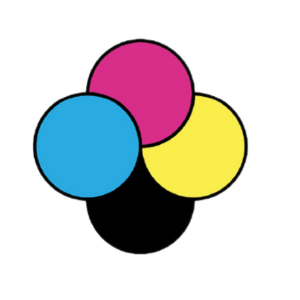
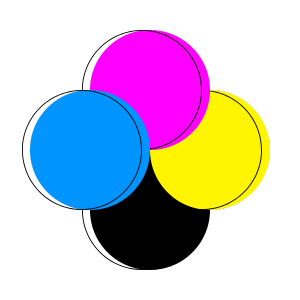
Major Update
add Animation on-scroll + adjust assets

diff --git a/index.html b/index.html
@@ -2,17 +2,12 @@
 <html lang="en">
 <head>
   <meta charset="UTF-8">
-  <meta name="viewport" content="width=device-width, initial-scale=1.0">
-  <title>UXCO</title>
-</head>
-<!DOCTYPE html>
-<html lang="en">
-<head>
-  <meta charset="UTF-8">
   <meta http-equiv="X-UA-Compatible" content="IE-edge">
   <meta name="viewport" content="width=device-width, initial-scale-1.0">
   <link rel="stylesheet" href="style/style.css">
-  <title>U of S UXCO</title>
+  <title>Pixel.Palette 2024</title>
+  <link rel="icon" type="image/png" sizes="32x32" href="img/logo.png">
+
   <link rel="stylesheet" href="https://cdnjs.cloudflare.com/ajax/libs/font-awesome/4.7.0/css/font-awesome.min.css">
 </head>
 <body>
@@ -36,17 +31,17 @@
   <section id="hero-section">
     <div>
       <div class="heading">
-        <h1>Pixel.Palette,</h1>
+        <h1>Pixel.<br>Palette</h1>
         <h2>Friday - March 22 - 2024</h2>
       </div>
 
       <div class="description">
-        <p>Exhibit - A student art exhibit & reception represented by UX Collective and The Eighty-Eight Gallery.</p>
+        <p>Exhibit - A student art exhibit & reception represented by UofS UX Collective and The Eighty-Eight Gallery.-"</p>
       </div>
     </div>
 
     <div>
-      <img src="img/asset1.png"></img>
+      <img src="img/asset1.gif"></img>
     </div>
   </section>
 
@@ -74,7 +69,7 @@
       </div>
 
       <div class="project">
-        <img src="img/TheLamp-HarrisFerguson.png"></img>
+        <a href="http://lamp.arrangednon.space/" target="_blank"><img src="img/TheLamp-HarrisFerguson.png"></a>
         <h1>The Lamp</h1>
         <h2>Artist: Herris Ferguson-"</h2>
         <p>"-The Lamp is created from the outside. The Lamp is a result of the actions of others. Each orb is a small piece, a single element, in service of The Lamp. Give yourself to The Lamp. Submit a piece of yourself to The Lamp. Merge and meld with the collective in The Lamp. Stare deep into The Lamp, and let The Lamp enter you.</p>
@@ -85,7 +80,7 @@
       </div>
 
       <div class="project">
-        <img src="img/SoulofAI-NacimKhelifi.png"></img>
+        <a href="https://soul-search.tiiny.site/" target="_blank"><img src="img/SoulofAI-NacimKhelifi.png"></a>
         <h1>Soul Of AI</h1>
         <h2>Artist: Nacim Khelifi-"</h2>
         <p> 
@@ -97,7 +92,7 @@
       </div>
 
       <div class="project">
-        <img src="img/TheBottleneck-LyinMya.png"></img>
+        <a href="https://elleowo.github.io/The-Bottle-Neck/" target="_blank"><img src="img/TheBottleneck-LyinMya.png"></a>
         <h1>The Bottleneck</h1>
         <h2>Artist: Lyin Mya-"</h2>
         <p>"-Sometimes you feel like you’re stuck in an episode of depression that you can’t get out of. Just when you think you’re out, you fall back in. But don’t worry. It’s okay to pick up things and restart.</p>
@@ -108,7 +103,7 @@
       </div>
 
       <div class="project">
-        <img src="img/Kanae-AksharaDash.png"></img>
+        <a href="https://aksharadash.com/art" target="_blank"><img src="img/Kanae-AksharaDash.png"></a>
         <h1>Kanae</h1>
         <h2>Artist: Akshara Dash-"</h2>
         <p>"-Kanae is a little girl. Kanae is red. Kanae is anger. Her anger is pure and it makes the room grow bigger like a big red balloon. Kanae is the room. The room is Kanae. Inspired by the character of Kanae from Hiromi Kawakami's 'People from Our Neighborhood,' Akshara Dash's artwork 'Kanae' delves into the relationship between emotions and physical spaces. Kanae, depicted as a vessel of pure anger, embodies the energy that inflates the room like a colossal red balloon. Through this exploration, Dash reflects on her own relatability to Kanae and the symbiotic interplay between internal emotional spaces and external environments.</p>
@@ -119,7 +114,7 @@
       </div>
 
       <div class="project">
-        <img src="img/UnravellingPolymath-KirkFord.png"></img>
+        <a href="https://wilford.info/" target="_blank"><img src="img/UnravellingPolymath-KirkFord.png"></a>
         <h1>Unravelling Polymath</h1>
         <h2>Artist: Kirk Ford-"</h2>
         <p> 
@@ -138,19 +133,19 @@
     <div class="faq-content">
       <div class="faq">
         <h2>What is Pixel.Palette?</h2>
-        <p>An event features art as a form of website</p>
+        <p>-Pixel.Palette is an event designed to showcase websites as forms of internet art, where student as digital creators, web designers, and artists come together. </p>
       </div>
       <div class="faq">
         <h2>Can I join without any experience?</h2>
-        <p>We have basic workshops through out this event which guide and help you creating your own work &#40;e.g., front-end programming, design and art &#41;</p>
+        <p>-We have basic workshops through out this event which guide and help you creating your own work &#40;e.g., front-end programming, design and art &#41;</p>
       </div>
       <div class="faq">
         <h2>Who can participate?</h2>
-        <p>This event is opened for every students and alumni of Usask, who are interested in creating a website as an art form!</p>
+        <p>-This event is opened for every students and alumni of Usask, who are interested in creating a website as an art form!</p>
       </div>
       <div class="faq">
-        <h2>Can I join without any experience?</h2>
-        <p>We have basic workshops through out this event which guide and help you creating your own work &#40;e.g., front-end programming, design and art &#41;</p>
+        <h2>Can I team up with others for my project?</h2>
+        <p>-Yes, absolutely! You can participate in as a group project or individual work. Whichever is the choice, we encourage collaboration and teamwork at Pixel.Palette.</p>
       </div>
     </div>
   </section>
@@ -159,9 +154,9 @@
   <section id="footer-section">
     <div class="footer-header">
       <div class="social-medias">
-        <a><ion-icon name="logo-discord"></ion-icon></a>
-        <a><ion-icon name="logo-instagram"></ion-icon></a>
-        <a><ion-icon name="logo-linkedin"></ion-icon></a>
+        <a href="https://discord.gg/2Ew4AC3t" target="_blank"><ion-icon name="logo-discord"></ion-icon></a>
+        <a href="https://www.instagram.com/uofs_uxcollective?utm_source=ig_web_button_share_sheet&igsh=ZDNlZDc0MzIxNw==" target="_blank"><ion-icon name="logo-instagram"></ion-icon></a>
+        <a href="https://www.linkedin.com/company/uofs-ux-collective/" target="_blank"><ion-icon name="logo-linkedin"></ion-icon></a>
       </div>
       <div class="credit">
         <p><i class="fa fa-copyright" aria-hidden="true"></i>2024 UX Collective</p>
@@ -174,5 +169,7 @@
   <!--ion-icon external library links-->
   <script type="module" src="https://unpkg.com/ionicons@7.1.0/dist/ionicons/ionicons.esm.js"></script>
   <script nomodule src="https://unpkg.com/ionicons@7.1.0/dist/ionicons/ionicons.js"></script>
+  <script src="https://cdnjs.cloudflare.com/ajax/libs/gsap/3.5.1/gsap.min.js"></script>
+  <script src="https://cdnjs.cloudflare.com/ajax/libs/gsap/3.5.1/ScrollTrigger.min.js"></script>
 </body>
 </html>

diff --git a/style/style.css b/style/style.css
@@ -12,7 +12,7 @@ body {
   margin: 0;
   padding: 0;
   overflow-y: scroll;
-  background-color: EEEFEF;
+  background-color: #fff;
   font-family: 'Roboto Mono', monospace;
 }
 
@@ -108,7 +108,7 @@ section{
 }
 
 #hero-section img{
-  max-width: 30vw;
+  max-width: 35vw;
   height:auto;
 }
 
@@ -118,9 +118,17 @@ section{
 
 #hero-section h1{
   font-family: "Space Mono", sans-serif;
-  color: #0094FF;
-  font-size:5em;
-  text-shadow: -1px -1px 0 #000, 1px -1px 0 #000, -1px 1px 0 #000, 1px 1px 0 #000;
+  color: #000;
+  font-size:8em;
+  text-shadow: 
+  -2px -2px 0 #333, 2px -2px 0 #333, 
+  -2px 2px 0 #333, 2px 2px 0 #333,
+  -1px -2px 0 #333, 1px -2px 0 #333,
+  -2px -1px 0 #333, 2px -1px 0 #333,
+  -2px 1px 0 #333, 2px 1px 0 #333,
+  -1px 2px 0 #333, 1px 2px 0 #333;
+  line-height: 12vh;
+  margin-bottom: 5vh;
 }
 
 .description{
@@ -128,7 +136,7 @@ section{
 }
 
 #hero-section p{
-  font-size: 2em;
+  font-size: 1em;
 }
 
 
@@ -152,10 +160,16 @@ section{
 }
 
 .workshop-header {
-  text-shadow: -1px -1px 0 #000, 1px -1px 0 #000, -1px 1px 0 #000, 1px 1px 0 #000;
-  font-size: 2em;
+  text-shadow: 
+  -2px -2px 0 #000, 2px -2px 0 #000, 
+  -2px 2px 0 #000, 2px 2px 0 #000,
+  -1px -2px 0 #000, 1px -2px 0 #000,
+  -2px -1px 0 #000, 2px -1px 0 #000,
+  -2px 1px 0 #000, 2px 1px 0 #000,
+  -1px 2px 0 #000, 1px 2px 0 #000;
+  font-size: 4em;
   margin-bottom: 50px;
-  color:#DB4B93;
+  color: #0094FF;
 }
 
 .img-container {
@@ -176,9 +190,10 @@ section{
 }
 
 .img-container img {
-  max-width: 40%;
+  max-width: 40vw;
   height: auto;
   display: inline-block; /* Ensures images are in line */
+  border: #000 solid;
 }
 
 /* Project*/
@@ -193,10 +208,16 @@ section{
 }
 
 .project-header h1 {
-  text-shadow: -1px -1px 0 #000, 1px -1px 0 #000, -1px 1px 0 #000, 1px 1px 0 #000;
+  text-shadow: 
+  -2px -2px 0 #000, 2px -2px 0 #000, 
+  -2px 2px 0 #000, 2px 2px 0 #000,
+  -1px -2px 0 #000, 1px -2px 0 #000,
+  -2px -1px 0 #000, 2px -1px 0 #000,
+  -2px 1px 0 #000, 2px 1px 0 #000,
+  -1px 2px 0 #000, 1px 2px 0 #000;
   margin-bottom: 50px;
-  font-size: 3em;
-  color:#f6f21c;
+  font-size: 7em;
+  color:#DB4B93;
 }
 
 .project-feature .project h1{
@@ -209,6 +230,10 @@ section{
   font-weight: 400;
   font-style: italic;
   margin-bottom: 10px;
+}
+
+.project p{
+  text-align: justify;
 }
 
 .project-feature {
@@ -235,6 +260,11 @@ section{
   height: auto; 
   margin-bottom: 15px;
   border: #000 solid;
+  transition: all 1s ease-out;
+}
+
+.project-feature .project img:hover{
+  transform: rotate(2deg);
 }
 
 
@@ -247,9 +277,16 @@ section{
 }
 
 .faq-header{
-  font-size: 2em;
+  color:#f6f21c;
+  font-size: 5em;
   margin-bottom: 30px;
-  text-shadow: -1px -1px 0 #000, 1px -1px 0 #000, -1px 1px 0 #000, 1px 1px 0 #000;
+  text-shadow: 
+  -2px -2px 0 #000, 2px -2px 0 #000, 
+  -2px 2px 0 #000, 2px 2px 0 #000,
+  -1px -2px 0 #000, 1px -2px 0 #000,
+  -2px -1px 0 #000, 2px -1px 0 #000,
+  -2px 1px 0 #000, 2px 1px 0 #000,
+  -1px 2px 0 #000, 1px 2px 0 #000;
 }
 
 .faq-content{
@@ -262,6 +299,10 @@ section{
   max-width: 40vw;
   flex-basis: calc(50% - 10px);
   margin-bottom: 20px; /* Adds space between rows */
+}
+
+.faq p{
+  text-align: justify;
 }
 
 /*Footer style section*/
@@ -287,6 +328,10 @@ section{
 
 .social-medias ion-icon{
   font-size: 3em;
+}
+
+.social-medias a{
+  color: #000;
 }
 
 /*intersection assets*/
@@ -349,7 +394,7 @@ section{
   }
 
   #hero-section h1{
-    font-size:3em;
+    font-size:5em;
   }
 
   #hero-section h2{
@@ -372,6 +417,14 @@ section{
     text-align: left;
   }
 
+  .workshop-header {
+    font-size: 2em;
+  }
+
+  .project-header h1 {
+    font-size: 3em;
+  }
+
   .img-container img {
     max-width: 70vw;
   }  
@@ -381,7 +434,11 @@ section{
   }
 
   .faq-content .faq{
-    max-width: 100vw;
+    max-width: 80vw;
+  }
+
+  .faq-header{
+    font-size: 3em;
   }
 
   .faq-content h2{

diff --git a/script/script.js b/script/script.js
@@ -33,3 +33,24 @@ window.addEventListener('scroll', function() {
     nav.classList.remove('shrink');
   }
 });
+
+//GSAP animation on scroll
+gsap.registerPlugin(ScrollTrigger);
+
+gsap.utils.toArray("section").forEach(section => {
+  gsap.from(section, {
+    duration: 1,
+    x: '-0.5%',
+    autoAlpha: 0,
+    ease: 'power1.out', // Smooth and gentle easing
+    scrollTrigger: {
+      trigger: section,
+      start: "top 90%",
+      end: "top 10%",
+      toggleActions: "play none none none"
+    }
+  });
+});
+
+
+
